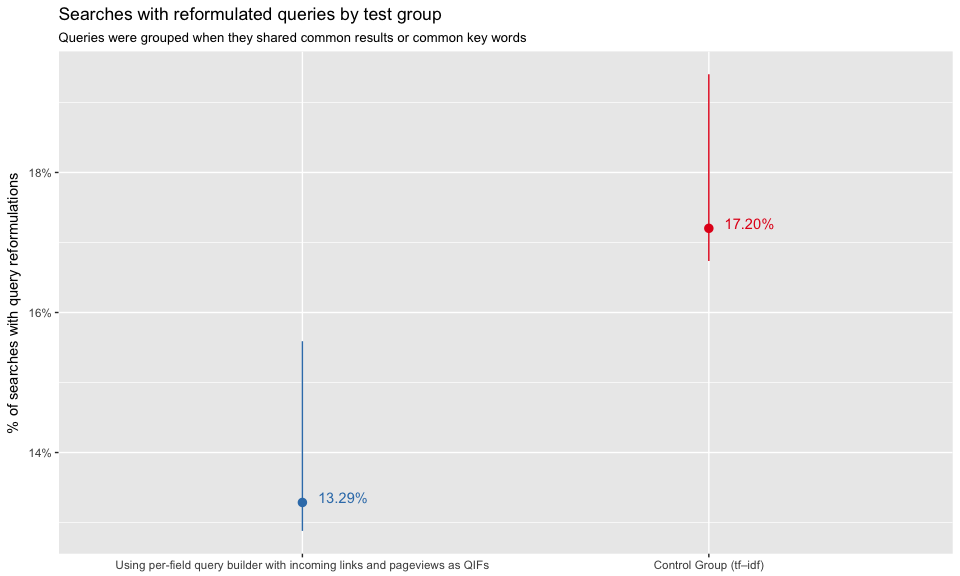
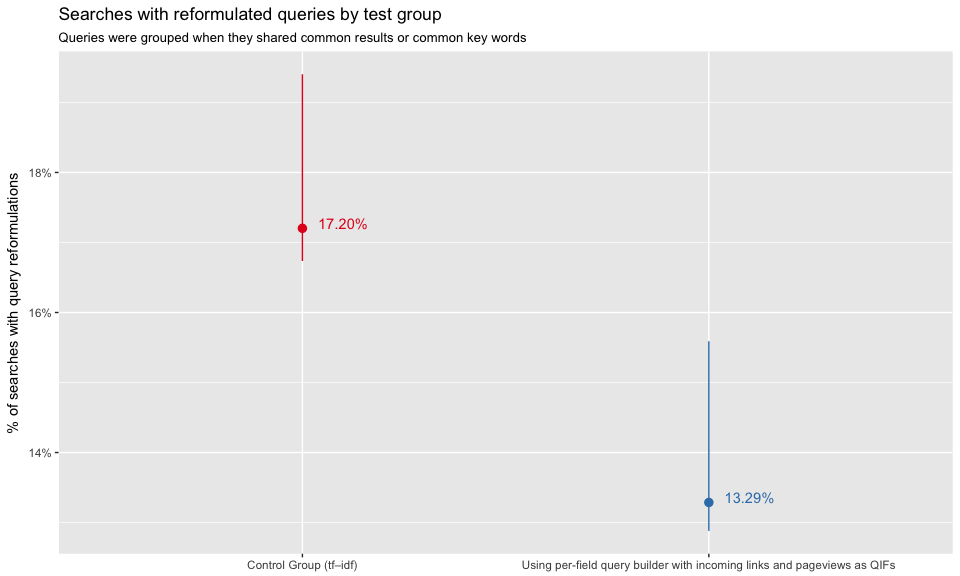
first draft edit2

diff --git a/docs/index.html b/docs/index.html
@@ -16,7 +16,7 @@
 <meta name="author" content="Deb Tankersley (Product Management)" />
 <meta name="author" content="Chelsy Xie (Analysis &amp; Report)" />
 
-<meta name="date" content="2016-12-08" />
+<meta name="date" content="2017-01-03" />
 
 <title>Second BM25 A/B Test Analysis</title>
 
@@ -278,14 +278,14 @@ div.tocify {
 
 
 <h1 class="title toc-ignore">Second BM25 A/B Test Analysis</h1>
-<h3 class="subtitle"><em>First Draft</em></h3>
+<h3 class="subtitle"><em>Second Draft</em></h3>
 <h4 class="author"><em><a href = 'https://meta.wikimedia.org/wiki/User:EBernhardson_(WMF)'>Erik Bernhardson</a> (Engineering)</em></h4>
 <h4 class="author"><em><a href = 'https://www.mediawiki.org/wiki/User:DCausse_(WMF)'>David Causse</a> (Engineering &amp; Report)</em></h4>
 <h4 class="author"><em><a href = 'https://meta.wikimedia.org/wiki/User:TJones_(WMF)'>Trey Jones</a> (Engineering &amp; Review)</em></h4>
 <h4 class="author"><em><a href = 'https://meta.wikimedia.org/wiki/User:MPopov_(WMF)'>Mikhail Popov</a> (Review)</em></h4>
 <h4 class="author"><em><a href = 'https://meta.wikimedia.org/wiki/User:DTankersley_(WMF)'>Deb Tankersley</a> (Product Management)</em></h4>
 <h4 class="author"><em><a href = 'https://meta.wikimedia.org/wiki/User:CXie_(WMF)'>Chelsy Xie</a> (Analysis &amp; Report)</em></h4>
-<h4 class="date"><em>08 December 2016</em></h4>
+<h4 class="date"><em>03 January 2017</em></h4>
 
 </div>
 
@@ -307,14 +307,14 @@ $(function() {
 </p>
 <div id="executive-summary" class="section level2">
 <h2>Executive Summary</h2>
-<p>In order to assess the efficacy of BM25 in space-less language, Discovery’s Search team has decided to conduct a second A/B test in Chinese, Japanese and Thai Wikipedia. We found that for test group that used per-field query builder with incoming links and pageviews as query-independent factors, we have a much better Zero Result Rate but slightly worse PaulScores, large decrease in clickthrough rate, and fewer users clicked on the first result first, which indicates that we are showing test group users worse results. However, longer dwell time and fewer query reformulation show that test group users may like the results they are getting on some dimension. We recommend deploying BM25 for all wikis but not reindex projects in space-less languages for now.</p>
+<p>In order to assess the efficacy of BM25 in space-less language, Discovery’s Search team has decided to conduct a second A/B test in Chinese, Japanese and Thai Wikipedias. We observed that the test group that used per-field query builder with incoming links and pageviews as query-independent factors had a much better Zero Result Rate but slightly worse PaulScores, large decrease in clickthrough rate, and fewer users clicked on the first result first, which indicates that we are showing test group users worse results. However, longer dwell-time and fewer query reformulations show that test group users might actually like the results they are getting better than the control group in that respect. We recommend deploying BM25 for all wikis but not reindexing projects in space-less languages for now.</p>
 </div>
 <div id="background" class="section level2">
 <h2>Background</h2>
 <p>To improve the relevancy of search results, Discovery’s Search team decided to try a new document-ranking function called <a href="https://en.wikipedia.org/wiki/Okapi_BM25">Okapi BM25</a> (BM stands for Best Matching), and ran an <a href="https://phabricator.wikimedia.org/T143585">A/B test</a> from August 30 to September 10 to assess the efficacy of the proposed switch. The <a href="https://wikimedia-research.github.io/Discovery-Search-Test-BM25">analysis</a> showed that BM25 ranking with incoming links and pageviews as query-independent factors appears to give users results that are more relevant and that they engage with more.</p>
-<p>However, we then <a href="https://phabricator.wikimedia.org/T147008#2679631">realized</a> that our analysis chain is sub-optimal for space-less language queries, which will break words on every characters for the plain field. Therefore, we ran a <a href="https://phabricator.wikimedia.org/T147495">second A/B test</a> for Chinese, Japanese and Thai Wikipedia to test that the new per-field BM25 builder is or is not sufficiently worse on these languages. We are primarily interested in:</p>
+<p>However, we then <a href="https://phabricator.wikimedia.org/T147008#2679631">realized</a> that our analysis chain is sub-optimal for space-less language queries, which will break words on every characters for the plain field. Therefore, we ran a <a href="https://phabricator.wikimedia.org/T147495">second A/B test</a> for Chinese, Japanese and Thai Wikipedias to test whether the new per-field BM25 builder is sufficiently worse with those languages. We are primarily interested in:</p>
 <ul>
-<li><strong>Zero results rate</strong>, the proportion of searches that yielded zero results (smaller is better)</li>
+<li><strong>Zero results rate</strong>, the proportion of searches that yielded zero results (smaller is usually better)</li>
 <li><strong>Users’ engagement</strong> with the search results, measured as the clickthrough rate (bigger is better)</li>
 <li><strong>PaulScore</strong>, a metric of search results’ relevancy that relies on the position of the clicked result[s] (bigger is better); see <a href="https://wikimedia-research.github.io/Discovery-Search-Test-BM25/#paulscore_definition">PaulScore Definition</a> for more details</li>
 <li><strong>Query reformulation</strong> – one way to think about the strength of our search engine is how many times the user reformulates their query; if a user in the test group has to reformulate their query many more times to get the results they are interested in, then maybe the change is for the worse</li>
@@ -366,7 +366,7 @@ cirrus &lt;-<span class="st"> </span>readr::<span class="kw">read_tsv</span>(<sp
 cirrus &lt;-<span class="st"> </span>cirrus[!<span class="kw">duplicated</span>(cirrus),]
 events &lt;-<span class="st"> </span><span class="kw">left_join</span>(events, cirrus, <span class="dt">by =</span> <span class="kw">c</span>(<span class="st">&quot;event_id&quot;</span>, <span class="st">&quot;page_id&quot;</span>, <span class="st">&quot;cirrus_id&quot;</span>))
 <span class="kw">rm</span>(cirrus)</code></pre></div>
-<p>For Chinese Wikipedia (zhwiki) and Japanese Wikipedia (jawiki), users had a 1 in 16 chance of being selected for search satisfaction tracking according to our <a href="https://meta.wikimedia.org/w/index.php?title=Schema:TestSearchSatisfaction2&amp;id=15922352">TestSearchSatisfaction2 #15922352</a> schema. Those users who were randomly selected to have their sessions anonymously tracked then had a 12 in 13 chance of being selected for the BM25 test. For Thai Wikipedia (thwiki), users had a 1 in 5 chance of being selected for search satisfaction tracking and then had a 38 in 39 chance of being selected for the BM25 test. The sampled sessions were evenly put into control group (tf-idf) and test group (Using per-field query builder with incoming links and pageviews as QIFs); see the <a href="https://wikimedia-research.github.io/Discovery-Search-Test-BM25/#data">first BM25 test report</a> for more details. The test was deployed on October 27th and ran for a week for zhwiki and jawiki; for thwiki, we ran the test from October 27 to November 15.</p>
+<p>For Chinese Wikipedia (zhwiki) and Japanese Wikipedia (jawiki), users had a 1 in 16 chance of being selected for anonymous tracking according to our <a href="https://meta.wikimedia.org/w/index.php?title=Schema:TestSearchSatisfaction2&amp;id=15922352">TestSearchSatisfaction2 #15922352</a> event logging schema. Those users who were randomly selected to have their sessions anonymously tracked then had a 12 in 13 chance of being selected for the BM25 test. For Thai Wikipedia (thwiki), users had a 1 in 5 chance of being selected for search satisfaction tracking and then had a 38 in 39 chance of being selected for the BM25 test due to fewer visitors to that particular project. The sampled sessions were evenly put into a control group (tf-idf) and a test group (using per-field query builder with incoming links and pageviews as QIFs); see the <a href="https://wikimedia-research.github.io/Discovery-Search-Test-BM25/#data">first BM25 test report</a> for more details. The test was deployed on October 27th and ran for a week for zhwiki and jawiki, but until November 15th for thwiki specifically.</p>
 <p>The full-text (as opposed to auto-complete) searching event logging data was extracted from the database using this <a href="https://github.com/wikimedia-research/Discovery-Search-2ndTest-BM25_jazhth/blob/master/data.R">script</a>. We collected a total of 230.2K events from 36.1K unique sessions. See Table 1 for counts broken down by wiki and test group.</p>
 <div class="sourceCode"><pre class="sourceCode r"><code class="sourceCode r">events_summary &lt;-<span class="st"> </span>events %&gt;%
 <span class="st">  </span><span class="kw">group_by</span>(wiki, <span class="st">`</span><span class="dt">Test group</span><span class="st">`</span> =<span class="st"> </span>test_group) %&gt;%
@@ -663,7 +663,7 @@ knitr::<span class="kw">kable</span>(clickedResults_summary, <span class="dt">fo
 <h2>Results</h2>
 <div id="zero-results-rate" class="section level3">
 <h3>Zero Results Rate</h3>
-<p>In Figure 1, we see that the test group that used BM25 with incoming links and pageviews as query-independent factors had a significantly lower ZRR, but perhaps at the cost of relevance and engagement with the results. Figure 2 shows that zhwiki had the largest ZRR difference between control and test group.</p>
+<p>In Figure 1, we see that the test group that used BM25 with incoming links and pageviews as query-independent factors had a significantly lower zero results rate (ZRR). Smaller ZRR is usually better, but looking at the <a href="#paulscore">PaulScore</a>, <a href="#engagement">engagement</a> and <a href="#first_clicked_result’s_position">First Clicked Result’s Position</a>, we doubt that it came at the cost of relevance and engagement with the results. Figure 2 shows that zhwiki had the largest ZRR difference between control and test group.</p>
 <div class="sourceCode"><pre class="sourceCode r"><code class="sourceCode r">zrr_pages &lt;-<span class="st"> </span>searches %&gt;%
 <span class="st">  </span><span class="kw">group_by</span>(<span class="st">`</span><span class="dt">test group</span><span class="st">`</span>, results) %&gt;%
 <span class="st">  </span>tally %&gt;%
@@ -674,7 +674,7 @@ zrr_pages &lt;-<span class="st"> </span><span class="kw">cbind</span>(zrr_pages,
 <div class="sourceCode"><pre class="sourceCode r"><code class="sourceCode r">zrr_pages %&gt;%
 <span class="st">  </span><span class="kw">ggplot</span>(<span class="kw">aes</span>(<span class="dt">x =</span> <span class="st">`</span><span class="dt">test group</span><span class="st">`</span>, <span class="dt">y =</span> <span class="st">`</span><span class="dt">mean</span><span class="st">`</span>, <span class="dt">color =</span> <span class="st">`</span><span class="dt">test group</span><span class="st">`</span>)) +
 <span class="st">  </span><span class="kw">geom_pointrange</span>(<span class="kw">aes</span>(<span class="dt">ymin =</span> lower, <span class="dt">ymax =</span> upper)) +
-<span class="st">  </span><span class="kw">scale_x_discrete</span>(<span class="dt">limits =</span> <span class="kw">rev</span>(<span class="kw">levels</span>(events$test_group))) +
+<span class="st">  </span><span class="kw">scale_x_discrete</span>(<span class="dt">limits =</span> <span class="kw">levels</span>(events$test_group)) +
 <span class="st">  </span><span class="kw">scale_y_continuous</span>(<span class="dt">labels =</span> scales::<span class="kw">percent_format</span>()) +
 <span class="st">  </span><span class="kw">scale_color_brewer</span>(<span class="st">&quot;Test Group&quot;</span>, <span class="dt">palette =</span> <span class="st">&quot;Set1&quot;</span>, <span class="dt">guide =</span> <span class="ot">FALSE</span>) +
 <span class="st">  </span><span class="kw">labs</span>(<span class="dt">x =</span> <span class="ot">NULL</span>, <span class="dt">y =</span> <span class="st">&quot;Zero Results Rate&quot;</span>,
@@ -712,7 +712,7 @@ zrr_pages %&gt;%
 </div>
 <div id="paulscore" class="section level3">
 <h3>PaulScore</h3>
-<p>In Figure 3, we see that the test group had slightly lower PaulScores, which indicates that the results were less relevant. The difference is not significant when F = 0.9. Figure 4 shows that zhwiki had the largest PaulScore differences between control and test group.</p>
+<p>In Figure 3, we see that the test group had slightly lower PaulScores, which indicates that the results were less relevant. The difference is not significant when F = 0.9. This make sense because the smaller the value of scoring factor, the more weight put on the first few results, with lower ranking results counting for almost nothing. F=0.9 takes into account the broadest range of result rankings, and thus is less likely to change as dramatically. Figure 4 shows that zhwiki had the largest PaulScore differences between control and test group.</p>
 <div class="sourceCode"><pre class="sourceCode r"><code class="sourceCode r"><span class="kw">set.seed</span>(<span class="dv">777</span>)
 paulscores &lt;-<span class="st"> </span>searches %&gt;%
 <span class="st">  </span>ungroup %&gt;%
@@ -928,6 +928,7 @@ first_clicked %&gt;%
 <span class="st">  </span><span class="kw">scale_x_continuous</span>(<span class="dt">name =</span> <span class="st">&quot;T (Dwell Time in seconds)&quot;</span>, <span class="dt">breaks=</span><span class="kw">c</span>(<span class="dv">0</span>, <span class="dv">10</span>, <span class="dv">20</span>, <span class="dv">30</span>, <span class="dv">40</span>, <span class="dv">50</span>, <span class="dv">60</span>, <span class="dv">90</span>, <span class="dv">120</span>, <span class="dv">150</span>, <span class="dv">180</span>, <span class="dv">210</span>, <span class="dv">240</span>, <span class="dv">300</span>, <span class="dv">360</span>, <span class="dv">420</span>))+<span class="st"> </span>
 <span class="st">  </span><span class="kw">scale_y_continuous</span>(<span class="st">&quot;Proportion of visits longer than T (P%)&quot;</span>, <span class="dt">labels =</span> scales::<span class="kw">percent_format</span>(),
                      <span class="dt">breaks =</span> <span class="kw">seq</span>(<span class="dv">0</span>, <span class="dv">1</span>, <span class="fl">0.1</span>)) +
+<span class="st">  </span><span class="kw">scale_color_brewer</span>(<span class="dt">palette =</span> <span class="st">&quot;Set1&quot;</span>) +
 <span class="st">  </span><span class="kw">theme</span>(<span class="dt">legend.position =</span> <span class="st">&quot;bottom&quot;</span>)</code></pre></div>
 <div class="figure">
 <img src="index_files/figure-html/dwell_time_eda-1.png" alt="Figure 9: At time T, at most P% of users still stay on their visited pages. Broken down by test group." />
@@ -953,6 +954,7 @@ first_clicked %&gt;%
 <span class="st">  </span><span class="kw">scale_x_continuous</span>(<span class="dt">name =</span> <span class="st">&quot;T (Dwell Time in seconds)&quot;</span>, <span class="dt">breaks=</span><span class="kw">c</span>(<span class="dv">0</span>, <span class="dv">10</span>, <span class="dv">20</span>, <span class="dv">30</span>, <span class="dv">40</span>, <span class="dv">50</span>, <span class="dv">60</span>, <span class="dv">90</span>, <span class="dv">120</span>, <span class="dv">150</span>, <span class="dv">180</span>, <span class="dv">210</span>, <span class="dv">240</span>, <span class="dv">300</span>, <span class="dv">360</span>, <span class="dv">420</span>))+<span class="st"> </span>
 <span class="st">  </span><span class="kw">scale_y_continuous</span>(<span class="st">&quot;Proportion of visits longer than T (P%)&quot;</span>, <span class="dt">labels =</span> scales::<span class="kw">percent_format</span>(),
                      <span class="dt">breaks =</span> <span class="kw">seq</span>(<span class="dv">0</span>, <span class="dv">1</span>, <span class="fl">0.1</span>)) +
+<span class="st">  </span><span class="kw">scale_color_brewer</span>(<span class="dt">palette =</span> <span class="st">&quot;Set1&quot;</span>) +
 <span class="st">  </span><span class="kw">theme</span>(<span class="dt">legend.position =</span> <span class="st">&quot;bottom&quot;</span>) +
 <span class="st">  </span><span class="kw">facet_wrap</span>(~<span class="st"> </span>wiki, <span class="dt">ncol=</span><span class="dv">1</span>, <span class="dt">nrow =</span><span class="dv">3</span>)</code></pre></div>
 <div class="figure">
@@ -1125,7 +1127,7 @@ reformulation_counts &lt;-<span class="st"> </span><span class="kw">cbind</span>
 reformulation_counts %&gt;%
 <span class="st">  </span><span class="kw">ggplot</span>(<span class="kw">aes</span>(<span class="dt">x =</span> <span class="st">`</span><span class="dt">test group</span><span class="st">`</span>, <span class="dt">y =</span> <span class="st">`</span><span class="dt">mean</span><span class="st">`</span>, <span class="dt">color =</span> <span class="st">`</span><span class="dt">test group</span><span class="st">`</span>)) +
 <span class="st">  </span><span class="kw">geom_pointrange</span>(<span class="kw">aes</span>(<span class="dt">ymin =</span> lower, <span class="dt">ymax =</span> upper)) +
-<span class="st">  </span><span class="kw">scale_x_discrete</span>(<span class="dt">limits =</span> <span class="kw">rev</span>(<span class="kw">levels</span>(events$test_group))) +
+<span class="st">  </span><span class="kw">scale_x_discrete</span>(<span class="dt">limits =</span> <span class="kw">levels</span>(events$test_group)) +
 <span class="st">  </span><span class="kw">scale_y_continuous</span>(<span class="dt">labels =</span> scales::<span class="kw">percent_format</span>()) +
 <span class="st">  </span><span class="kw">scale_color_brewer</span>(<span class="st">&quot;Test Group&quot;</span>, <span class="dt">palette =</span> <span class="st">&quot;Set1&quot;</span>, <span class="dt">guide =</span> <span class="ot">FALSE</span>) +
 <span class="st">  </span><span class="kw">labs</span>(<span class="dt">x =</span> <span class="ot">NULL</span>, <span class="dt">y =</span> <span class="st">&quot;% of searches with query reformulations&quot;</span>,
@@ -1214,8 +1216,9 @@ reform_times %&gt;%
 </div>
 <div id="conclusion-and-discussion" class="section level2">
 <h2>Conclusion and Discussion</h2>
-<p>For the test group, we have a much better ZRR but slightly worse PaulScores, large decrease in clickthrough rate, and fewer users clicked on the first result first, which indicates that we are showing users worse results. However, dwell time and query reformulation analysis show that users may like the results they are getting on some dimension. We recommend deploying BM25 for all wikis but not reindex projects in space-less languages for now.</p>
-<p>The relatively large decrease in engagement and relevancy for zhwiki may be the result of tokenizer behavior. Chinese is the sole language in this test where we do not have a custom analysis chain. We emit only unigrams, so any page that randomly has all the same characters as the query in it will be returned.</p>
+<p>For the test group, we observed a much better ZRR but slightly worse PaulScores, large decrease in clickthrough rate, and fewer users clicked on the first result first, indicating that we are showing users worse results. However, dwell-time and query reformulation analysis show that users may like the results they are getting in some aspect. We recommend deploying BM25 for all wikis but not reindexing projects in space-less languages for now.</p>
+<p>This test revealed the performance of BM25 is unsatisfactory on space-less languages: some CirrusSearch components are dependent on the presence of spaces. We agree that the current behavior (forcing a proximity match on every query) is far from ideal but given the outcome of the test we decided not to move forward without prior work on space-less languages. We need better tokenization, and we need to track and fix all the components that make the bold assumption of the presence of spaces to activate/deactivate features.</p>
+<p>The relatively large decrease in engagement and relevancy for zhwiki may be the result of tokenizer behavior. Chinese is the sole language in this test where we do not have a custom analysis chain. We emit only unigrams, so any page that randomly has all the same characters as the query in it will be returned. This can greatly decreases ZRR without any increase in search result quality or relevance. In English this would be roughly similar to returning any page that had all the same letters as the query.</p>
 <p>The query reformulation analysis in this report is not ideal. Firstly, finding out shared tokens could not detect reformulated queries when users fix a typo in space-less languages. For example, when users modify their queries from “灯龙” to “灯笼” (lantern) they are fixing a typo, but tokenizers would take them as two different words. Secondly, we found that many users like to try their queries in different languages. Without enabling search across wikis in different languages, we are unable to detect this kind of reformulation.</p>
 </div>
 
